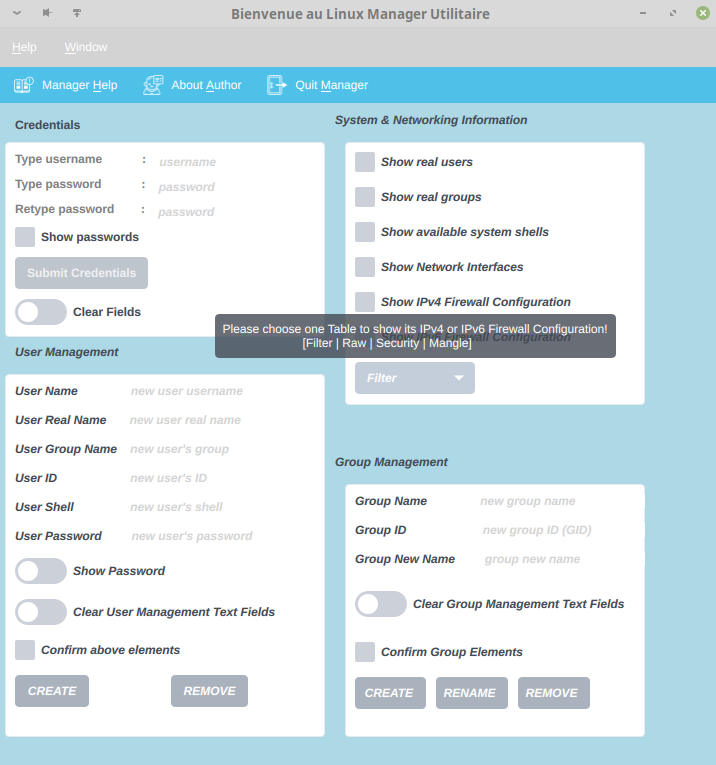
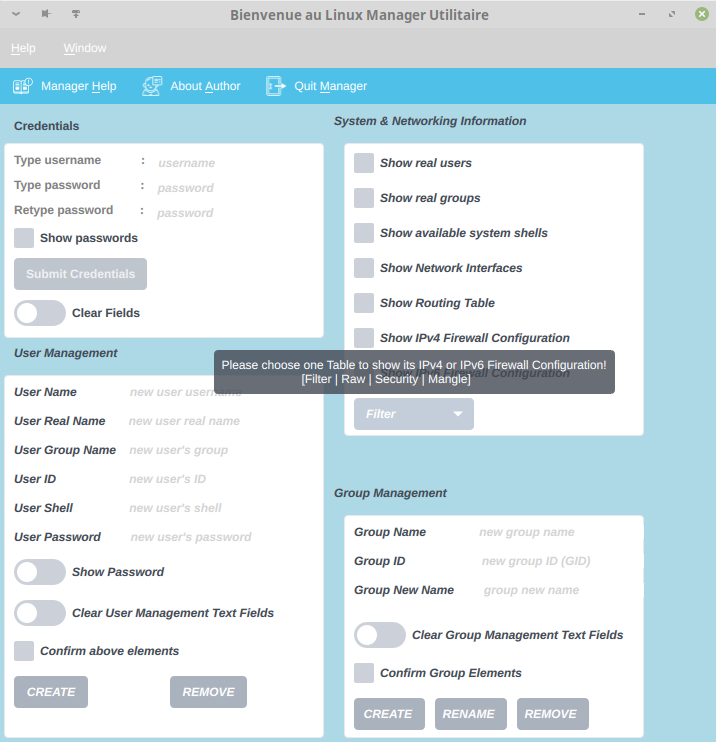
add routing table printout option ..

diff --git a/main.qml b/main.qml
@@ -815,7 +815,7 @@ ApplicationWindow {
         title: qsTr("System & Networking Information")
         x: 5
         width: credsGroupBoxId.width
-        height: userMgmntId.height - 100
+        height: userMgmntId.height - 70
         anchors.left: credsGroupBoxId.right
         anchors.top: rootElementId.top
         font: Qt.font({family: "Helvetica", pointSize: 9, italic: true, bold: true})
@@ -899,6 +899,25 @@ ApplicationWindow {
                     }
                 }
             }
+
+            Row {
+                bottomPadding: 10
+                leftPadding: 20
+                // Show Routing Table
+                CheckBox {
+                    id: routingTableCheckBox
+                    text: "Show Routing Table"
+                    onClicked: {
+                        if(checked===true) {
+                            genericMessageDialog.text = qsTr(myManager.netstat())
+                            genericMessageDialog.title = "Routing Table"
+                            genericMessageDialog.open()
+                            routingTableCheckBox.checked = false
+                        }
+                    }
+                }
+            }
+
             Row {
                 bottomPadding: 10
                 leftPadding: 20
@@ -1092,7 +1111,7 @@ ApplicationWindow {
                     text: "Clear Group Management Text Fields"
                     checked: false
                     leftPadding: 20
-                    bottomPadding: 20
+                    bottomPadding: 10
                     onCheckedChanged: {
                         if(checked===true) {
                             newGroupNameTextFieldId.text = ""
